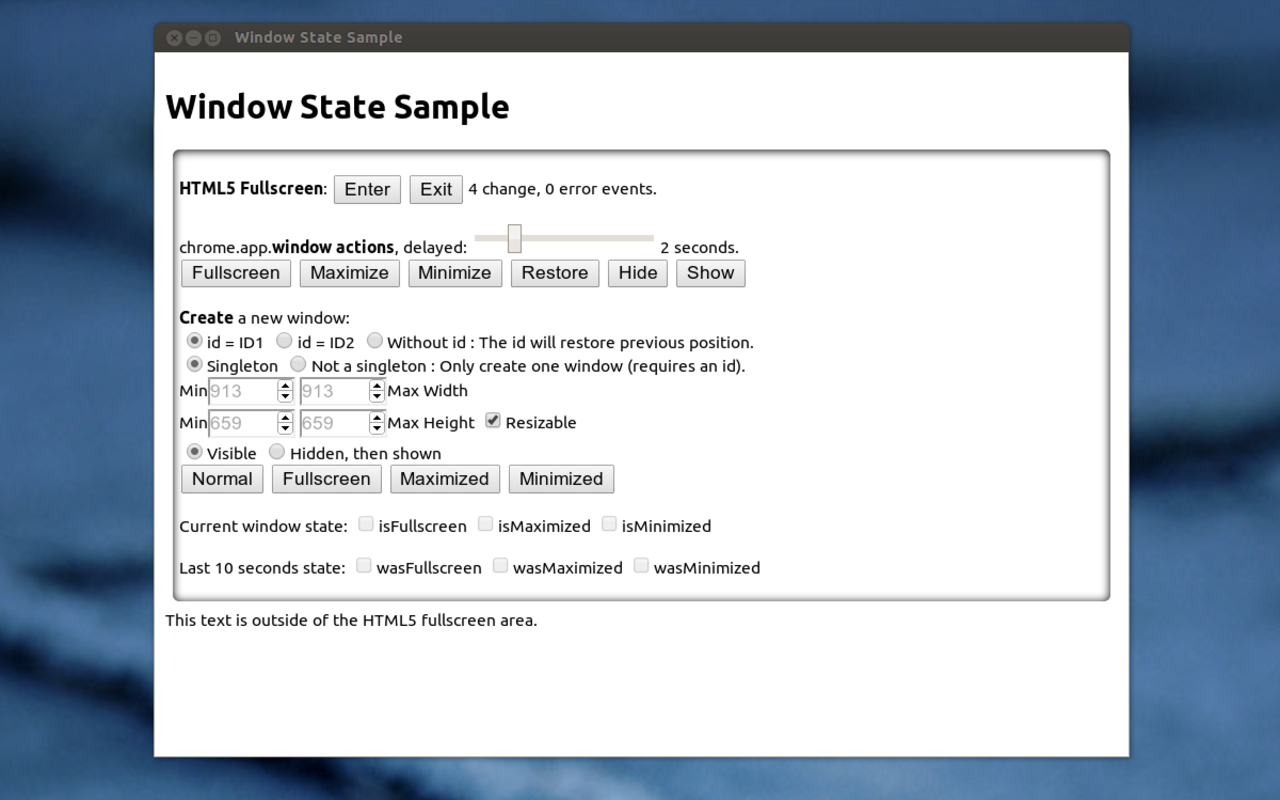
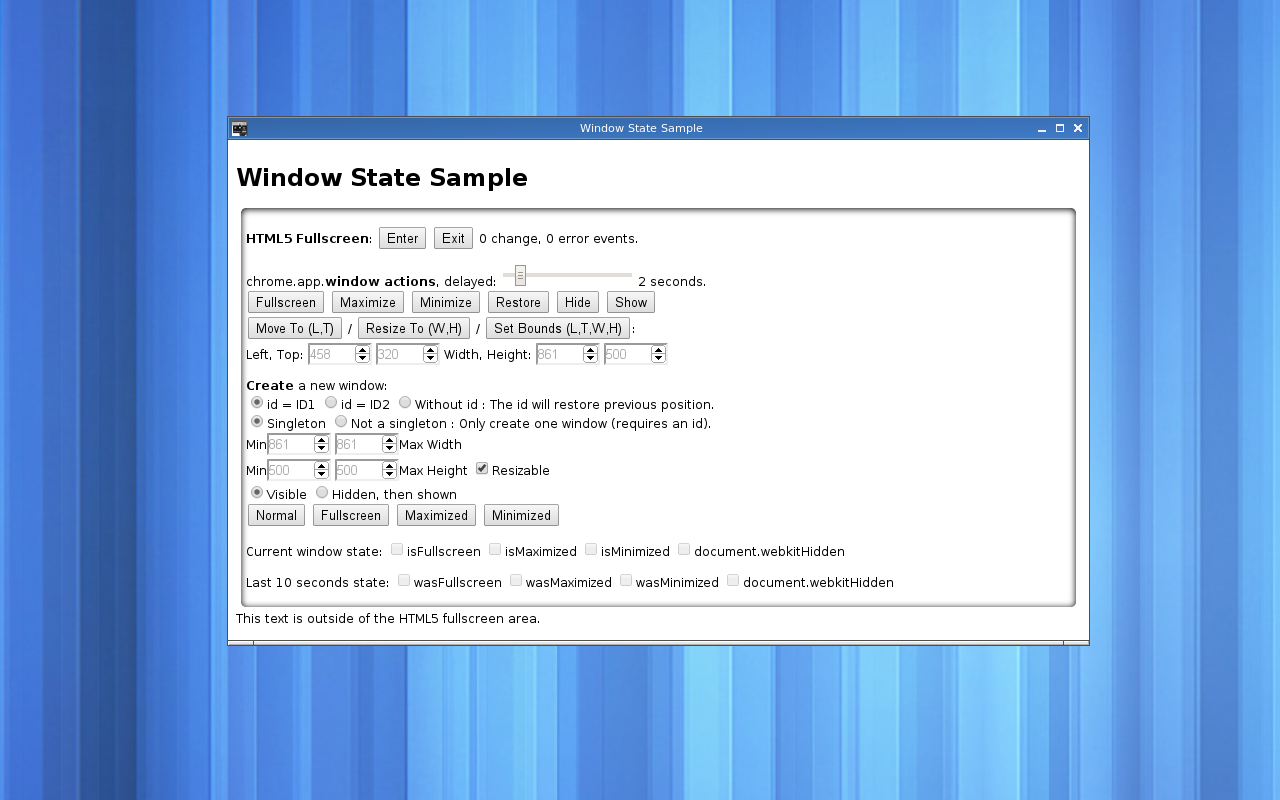
Update window size and screenshot

diff --git a/window-state/background.js b/window-state/background.js
@@ -1,7 +1,7 @@
 chrome.app.runtime.onLaunched.addListener(function() {
   chrome.app.window.create('window.html', {
     bounds: {
-      width: 600,
+      width: 700,
       height: 600
     }
   });
